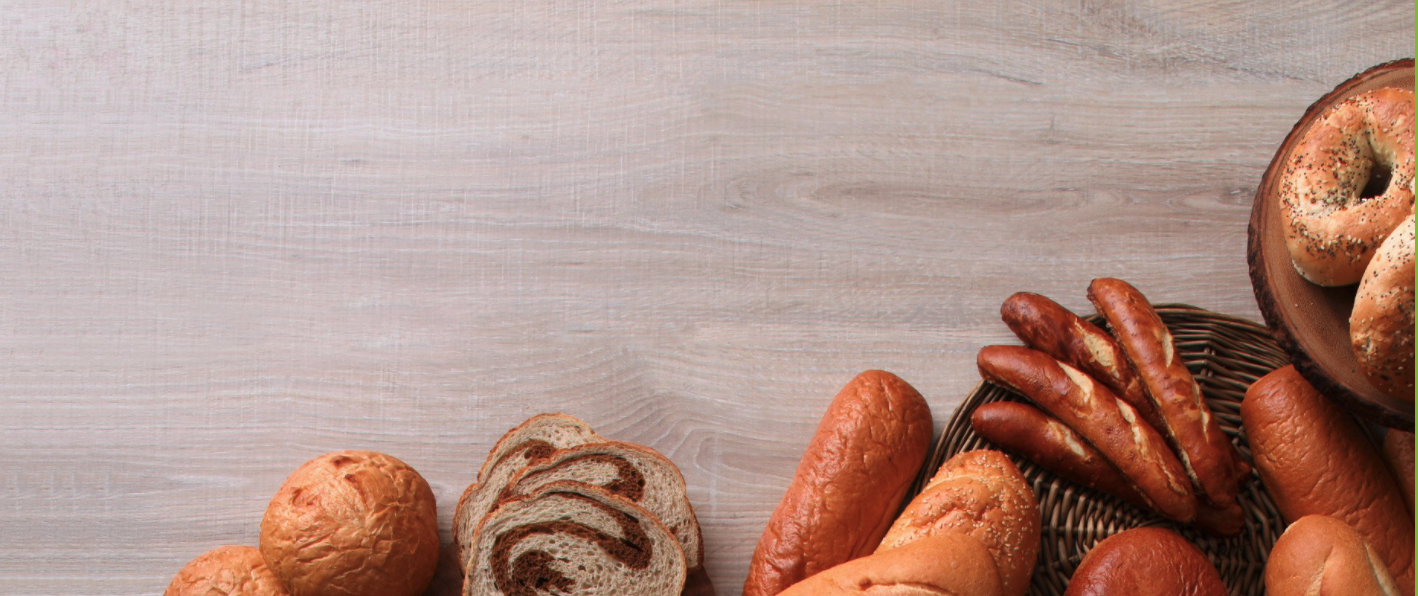
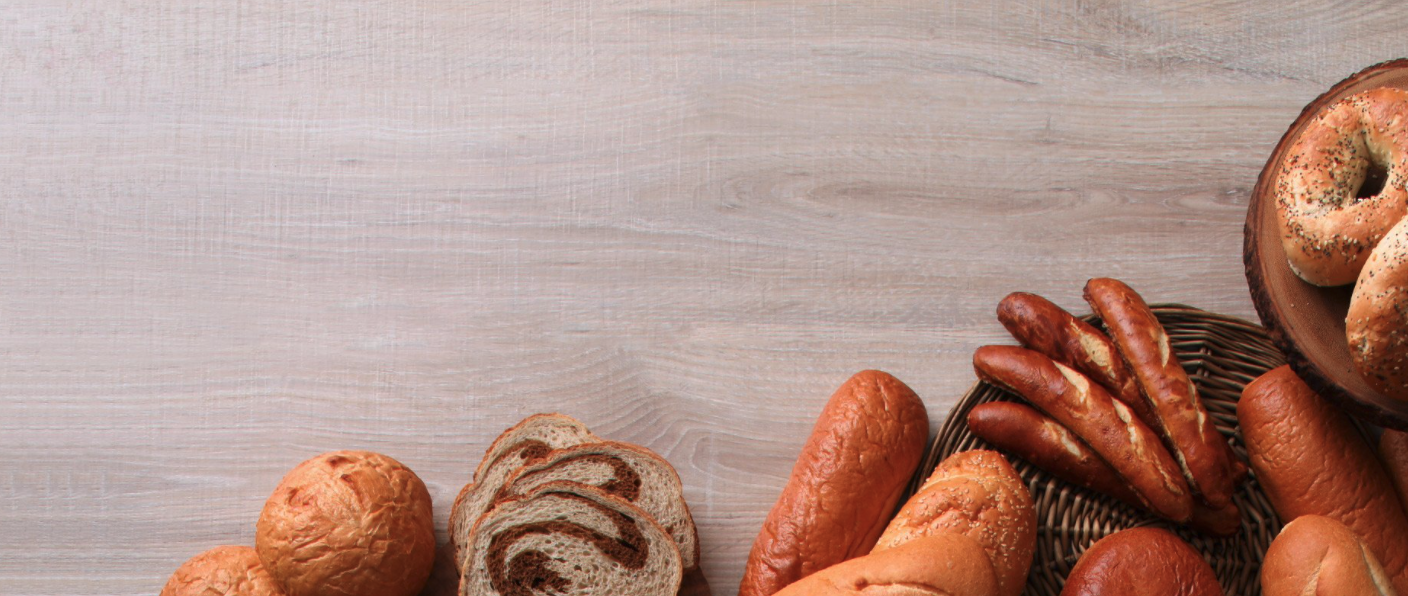
css - home img overflow-hidden

diff --git a/style.css b/style.css
@@ -92,9 +92,11 @@
     display: block;
   }
   #home {
+    position: relative;
     width: 100%;
     height: 700px;
-    /* background: url(/img/home_backg.jpeg) center/cover no-repeat; */
+    border-top: 2px solid var(--color-bronze);
+    overflow: hidden;
   }
   
   .home__container {
@@ -103,16 +105,22 @@
     width: 100%;
     left: 0;
     float: left;
-    transition: left 0.3s ease-in;
+    transition: left 0.4s ease-in;
+    
   }
-  
+.home__container li{
+  overflow: hidden;
+}  
   .home__slide {
     position: absolute;
+    display: flex;
+    justify-content: center;
+    align-items: center;
     width: 100%;
-    overflow: hidden;
   }
+
   .home__slide img {
-    width: 100%;
+    width: 2200px;
     height: 700px;
   }
   
@@ -126,7 +134,6 @@
   .left__btn,
   .right__btn {
     position: absolute;
-    width: 100px;
     background-color: lightgray;
     border-radius: 10px;
     opacity: .3;
@@ -134,13 +141,17 @@
   
   
   .left__btn{
+    width: 100px;
     top: 320px;
-    left: -10px;
+  }
+  .left__btn i{
+    left: 1000px;
   }
   
   .right__btn {
+    width: 100px;
     top: 320px;
-    right: -10px;
+    right: 0;
   }
   
   .page {
